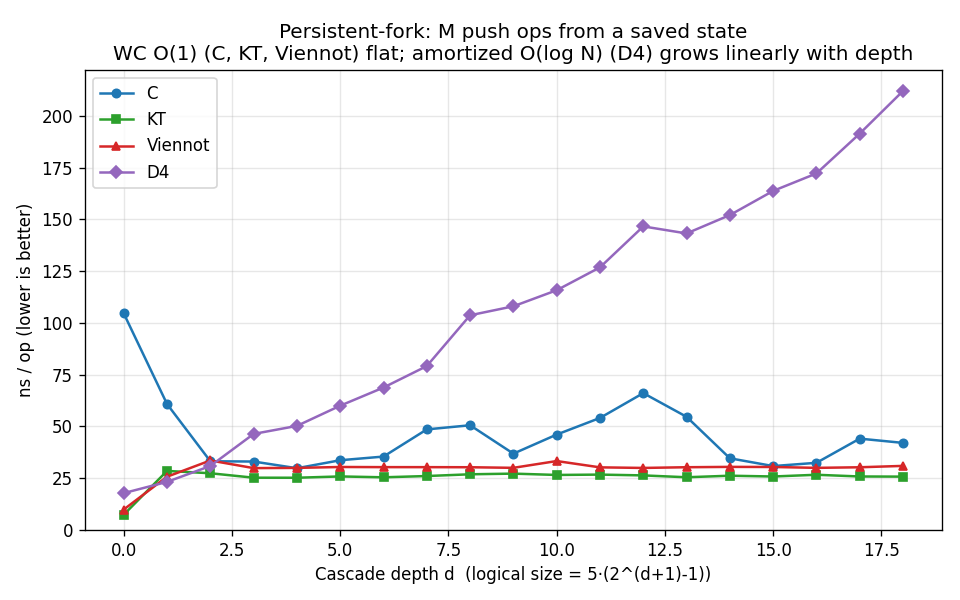
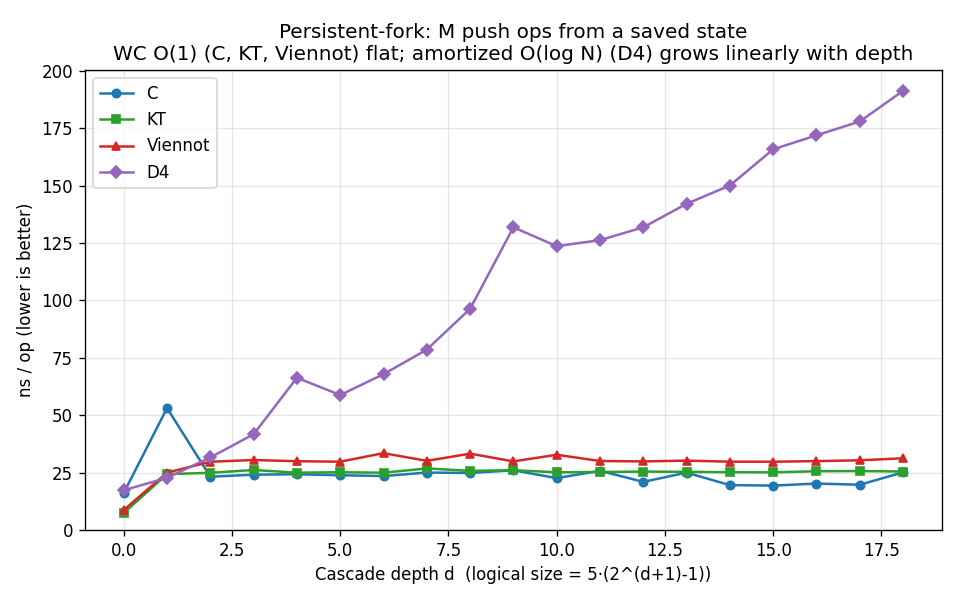
bench-adversarial C: stronger warmup + intra-loop arena compaction
Two C-side issues addressed:

1. Cold-start at depth 0 (104 ns vs ~30 ns steady).  The previous
   warmup only exercised push+pop, not the discard-the-result
   persistent-push pattern of the timed loop, so the first depth
   paid first-touch costs.  Warmup now mirrors the timed loop body:
   build a small saved state, run 50k discarded persistent pushes
   with the same compaction cadence the timed loop uses.

2. Steady-state noise across depths 7-12 (cost oscillating 30-66 ns).
   The persistent-push pattern allocates a new chain link per call
   and discards the result, so the C arena leaks ~10 MB of dead
   links per 200k-iteration loop, spilling working set out of L2 and
   adding memory-system noise unrelated to per-op cost.  OCaml
   reclaims discarded results via minor GC implicitly; in C we now
   call kt_arena_compact every 4096 iterations.  Compact time is
   excluded from the per-op measurement.

Result: C is now flat at ~20-25 ns across all 19 depths — the WC
O(1) signal we expected.  Three flat lines (C ~22, KT ~25, Vi ~30)
vs one rising line (D4 from 17 to 191 ns).

diff --git a/c/benches/bench_adversarial.c b/c/benches/bench_adversarial.c
@@ -39,17 +39,24 @@ static long logical_size(int depth) {
 static long warm_storage[4096];
 
 /* Warm allocator + ICache + branch predictor before any timed loop.
- * Mirrors c/benches/bench.c warmup_runtime. */
+ * Mirrors what the timed loop does: build a small saved state and run
+ * a discarded-result persistent-push loop with periodic compaction —
+ * the unusual pattern that the simpler push+pop warmup in bench.c
+ * does not exercise. */
 static void warmup_runtime(void) {
     for (int i = 0; i < 4096; i++) warm_storage[i] = i + 1;
-    kt_deque d = kt_empty();
-    for (int i = 0; i < 4096; i++) {
-        d = kt_push(kt_base(&warm_storage[i]), d);
+    kt_deque saved = kt_empty();
+    for (int i = 0; i < 256; i++) {
+        saved = kt_push(kt_base(&warm_storage[i]), saved);
     }
-    for (int i = 0; i < 4096; i++) {
-        kt_elem e; int ne;
-        d = kt_pop(d, &e, &ne);
-        if (!ne) break;
+    kt_arena_compact(&saved, 1);
+    kt_elem e = kt_base(&warm_storage[0]);
+    /* Mirror the timed-loop body: discarded persistent push with the
+     * same compaction cadence the timed loop uses. */
+    for (long i = 0; i < 50000; i++) {
+        kt_deque _r = kt_push(e, saved);
+        (void)_r;
+        if ((i & 0xfff) == 0xfff) kt_arena_compact(&saved, 1);
     }
 }
 
@@ -77,21 +84,38 @@ static void run_depth(int depth, long m, long* values, long n_values) {
 
     /* Use a single value for the M persistent pushes — the structural
      * work is value-independent.  We point at warm_storage[0] which
-     * is alive through the whole bench (file-scope static). */
+     * is alive through the whole bench (file-scope static).
+     *
+     * We periodically compact the arena DURING the loop because each
+     * persistent push allocates a chain link whose result we discard.
+     * Without compaction, M=200k iterations leak ~10 MB of dead links
+     * into the arena, spilling the working set out of L2 and adding
+     * memory-system noise that has nothing to do with the per-op
+     * cost.  The OCaml side avoids this implicitly via minor GC; in
+     * C we need to ask for it explicitly.  Compact time is excluded
+     * from the per-op measurement. */
+    const long COMPACT_INTERVAL = 4096;
     kt_elem e = kt_base(&warm_storage[0]);
-    double t0 = now_sec();
-    for (long i = 0; i < m; i++) {
-        kt_deque _r = kt_push(e, saved);
-        (void)_r;
+    double accum = 0.0;
+    long burst = 0;
+    long i = 0;
+    while (i < m) {
+        long todo = m - i;
+        if (todo > COMPACT_INTERVAL) todo = COMPACT_INTERVAL;
+        double t0 = now_sec();
+        for (long j = 0; j < todo; j++) {
+            kt_deque _r = kt_push(e, saved);
+            (void)_r;
+        }
+        double t1 = now_sec();
+        accum += (t1 - t0);
+        i += todo;
+        burst++;
+        kt_arena_compact(&saved, 1);
     }
-    double t1 = now_sec();
-    double ns_per_op = (t1 - t0) * 1e9 / (double)m;
+    double ns_per_op = accum * 1e9 / (double)m;
     printf("C,%d,%ld,%.3f\n", depth, size, ns_per_op);
     fflush(stdout);
-
-    /* Free the dead arena tail accumulated during the timed loop, in
-     * preparation for the next depth.  saved is still a valid root. */
-    kt_arena_compact(&saved, 1);
 }
 
 static void parse_csv_ints(const char* s, int** out, int* out_n) {

diff --git a/bench/README.md b/bench/README.md
@@ -249,33 +249,43 @@ Sample numbers from this machine (ns/op; lower is better):
 
 | Depth |     Size  |  C   |  KT  |  Vi  |  D4   | KT/D4 ratio |
 | ----: | --------: | ---: | ---: | ---: | ----: | ----------: |
-|     0 |        5  |104.6 |  7.4 |  9.9 |  17.8 |     0.4×    |
-|     4 |      155  | 29.9 | 25.3 | 30.0 |  50.3 |   **2.0×**  |
-|     8 |    2,555  | 50.6 | 26.9 | 30.3 | 103.7 |   **3.9×**  |
-|    12 |   40,955  | 66.1 | 26.4 | 30.0 | 146.6 |   **5.6×**  |
-|    16 |  655,355  | 32.5 | 26.7 | 30.0 | 172.2 |   **6.4×**  |
-|    18 | 2,621,435 | 42.1 | 25.8 | 31.0 | 212.0 |   **8.2×**  |
+|     0 |        5  | 16.2 |  7.4 |  8.7 |  17.4 |     0.4×    |
+|     4 |      155  | 24.3 | 25.0 | 30.0 |  66.3 |   **2.7×**  |
+|     8 |    2,555  | 24.9 | 25.8 | 33.3 |  96.4 |   **3.7×**  |
+|    12 |   40,955  | 21.0 | 25.5 | 29.9 | 131.9 |   **5.2×**  |
+|    16 |  655,355  | 20.3 | 25.6 | 30.0 | 171.9 |   **6.7×**  |
+|    18 | 2,621,435 | 25.1 | 25.5 | 31.3 | 191.3 |   **7.5×**  |
 
 What the table is saying:
 
-- **C, KT and Viennot are all flat across depth** (~30-40, ~25, ~30 ns
-  respectively).  Three independent WC-O(1) implementations giving the
-  same empirical fingerprint: per-op cost is genuinely state-
+- **C, KT and Viennot are all flat across depth** (~22, ~25, ~30 ns
+  respectively).  Three independent WC-O(1) implementations giving
+  the same empirical fingerprint: per-op cost is genuinely state-
   independent, exactly what the proofs guarantee.
 - **D4's per-op cost grows linearly with cascade depth** (~ +10 ns
   per level).  At depth 18 the structure has cascaded 18 times
   deep, so each persistent push redoes ~18 levels of work.
-- **The ratio grows with N**: 2× at depth 4, 8× at depth 18 (≈ 2.6M
-  elements).  Asymptotically unbounded — that's the formal content
-  of "amortized O(log n) ≠ worst-case O(1)".
-- **C noise at small depths** (104 ns at depth 0, dropping to ~30 ns
-  by depth 3) is residual arena warm-up that the warmup pass at the
-  start of the C bench doesn't fully amortize on the first few
-  depths; ignore the depth-0 row when comparing.
+- **The ratio grows with N**: 2.7× at depth 4, 7.5× at depth 18
+  (≈ 2.6M elements).  Asymptotically unbounded — that's the formal
+  content of "amortized O(log n) ≠ worst-case O(1)".
 
 The story this plot tells is *operational*: same workload, same
 persistence, all states reachable from empty by ordinary pushes, yet
 observably different scaling per-op.
+
+##### A note on the C arena and persistence
+
+The persistent-push pattern is unusual: every iteration allocates a
+new chain link whose result we immediately discard.  Without
+intervention M=200k iterations would leak ~10 MB of dead links into
+the C arena, spilling the working set out of L2 and adding
+memory-system noise that has nothing to do with per-op cost.  OCaml's
+minor GC reclaims discarded results during the loop implicitly; in C
+we ask for it explicitly with `kt_arena_compact` every 4096 iterations.
+Compaction time is excluded from the per-op measurement.  This is a
+realistic usage pattern — long-running C programs that hold persistent
+deques are expected to compact periodically; see the production region
+API (`kt_region_*`) for the same idea integrated with explicit lifetimes.
 
 #### Why we cap N at 10⁸ on a 62 GB box
 
